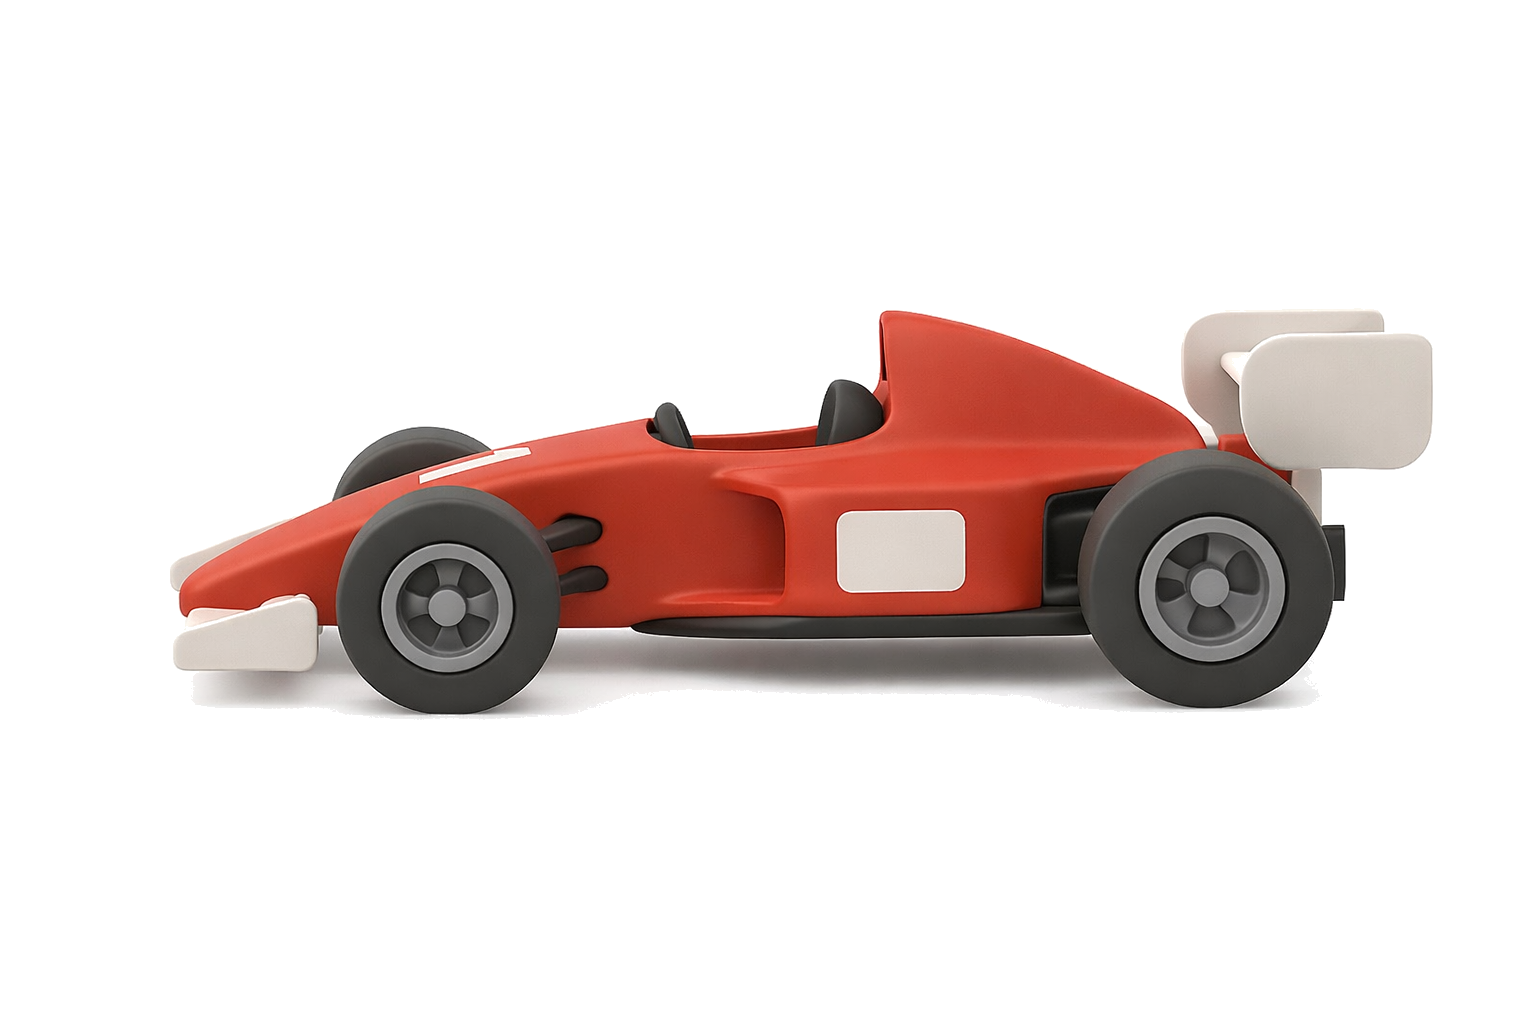
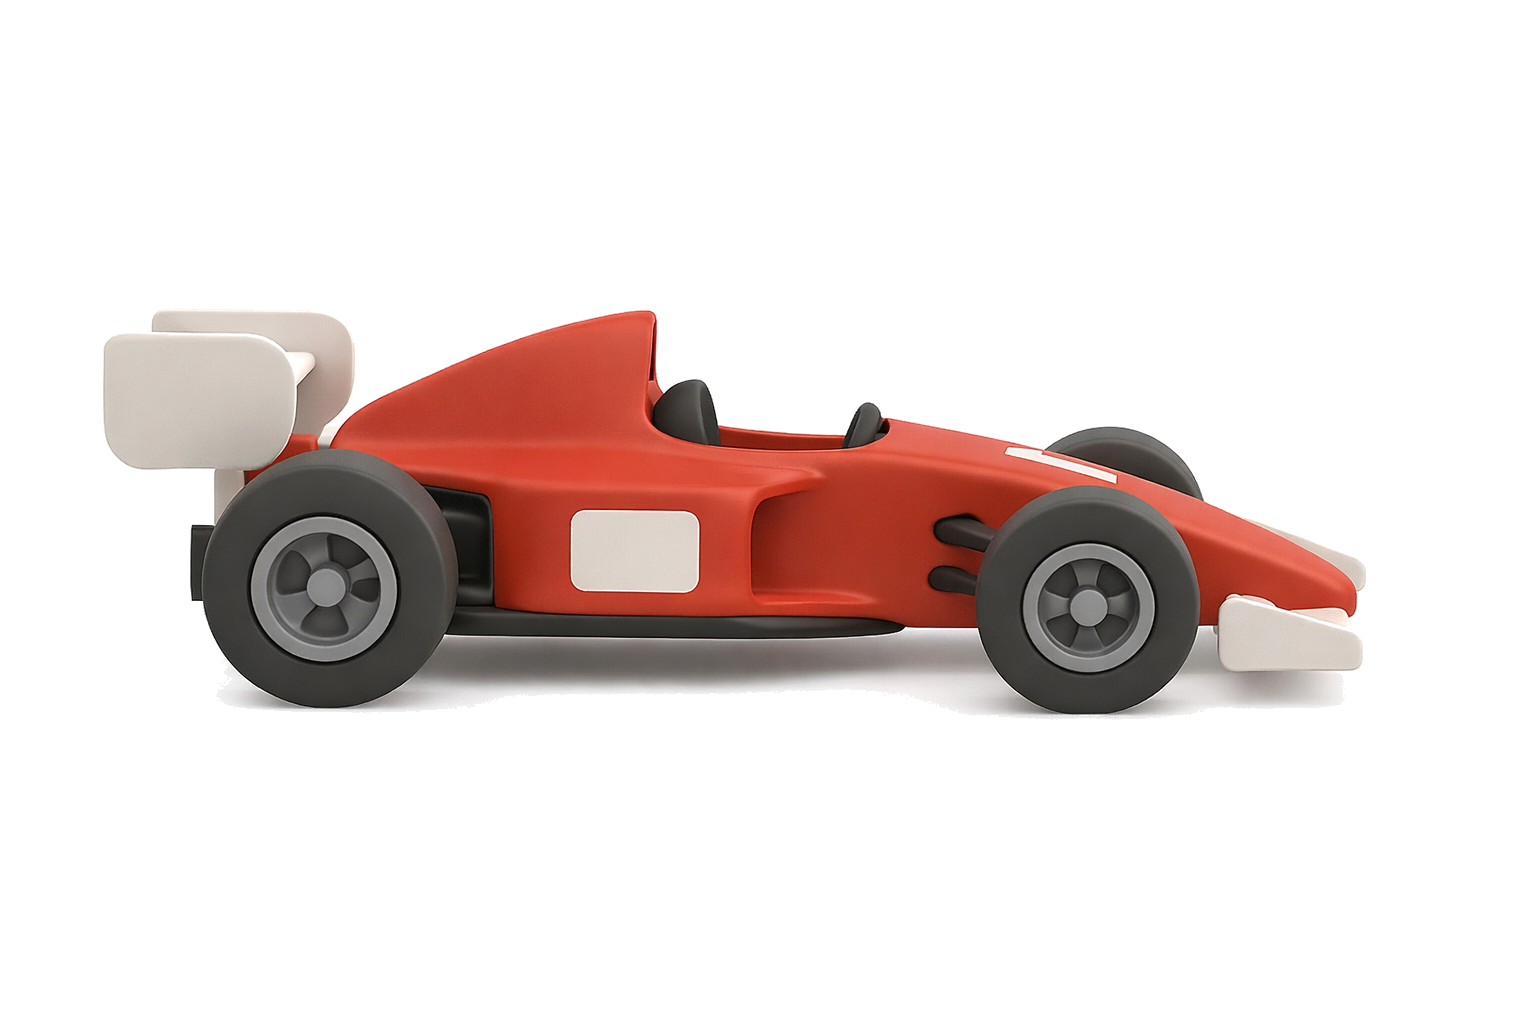
feat: Update character names and descriptions; enhance idle animation handling in BodyShape

Changed region(s): [[0.0625, 0.2812, 0.9375, 0.7188]]

diff --git a/scripts/shapes/bodyShape.js b/scripts/shapes/bodyShape.js
@@ -46,12 +46,15 @@ class BodyShape extends BaseShape {
     setProperties(properties) {
         super.setProperties(properties);
         this.character = this.getSelectedCharacter();
+        this.synchronizeIdleAnimationTicker();
     }
 
     setProperty(name, value) {
         if (name === "characterKey")
             this.character = BodyShape.getCharacterByKey(value);
         super.setProperty(name, value);
+        if (name === "characterKey")
+            this.synchronizeIdleAnimationTicker();
     }
 
     getHandles() {
@@ -142,6 +145,7 @@ class BodyShape extends BaseShape {
         const buttonItems = characters.map(character => ({
             key: character.folder,
             name: character.name,
+            description: character.description,
             icon: `resources/characters/${character.folder}/${character.image}`
         }));
         items.push(
@@ -204,6 +208,7 @@ class BodyShape extends BaseShape {
                     },
                     itemTemplate: (itemData, itemIndex, itemElement) => {
                         itemElement[0].innerHTML = `<div style="width:50px;height:50px;display:flex;align-items:center;justify-content:center;"><img src="${itemData.icon}" alt="${itemData.name}" style="width:100%;height:100%;object-fit:contain;" /></div>`;
+                        this.configureCharacterTooltip(itemData, itemElement[0]);
                     },
                     onItemClick: e => {
                         const formInstance = $("#shape-form").dxForm("instance");
@@ -215,6 +220,37 @@ class BodyShape extends BaseShape {
         );
         instance.option("items", items);
         return form;
+    }
+
+    configureCharacterTooltip(itemData, itemElement) {
+        if (itemElement.dataset.tooltipInitialized === "true")
+            return;
+        itemElement.dataset.tooltipInitialized = "true";
+        const name = this.escapeCharacterTooltipText(itemData.name ?? "");
+        const description = this.escapeCharacterTooltipText(itemData.description ?? "");
+        const tooltipHtml = `<div class="tooltip"><strong>${name}</strong><div>${description}</div></div>`;
+        $("<div>")
+            .appendTo("body")
+            .dxTooltip({
+                target: itemElement,
+                contentTemplate: contentElement => contentElement.append($("<div class='tooltip'/>").html(tooltipHtml)),
+                showEvent: {
+                    delay: 300,
+                    name: "mouseenter"
+                },
+                hideEvent: "mouseleave",
+                position: "top",
+                width: 220
+            });
+    }
+
+    escapeCharacterTooltipText(value) {
+        return String(value)
+            .replaceAll("&", "&amp;")
+            .replaceAll("<", "&lt;")
+            .replaceAll(">", "&gt;")
+            .replaceAll('"', "&quot;")
+            .replaceAll("'", "&#39;");
     }
 
     createImageDropZoneEditor() {
@@ -292,10 +328,53 @@ class BodyShape extends BaseShape {
         this.properties.imageBase64 = "";
         this.properties.characterKey = "";
         this.character = null;
+        this.lastBoardHorizontalPosition = null;
+        this.flipImageHorizontally = false;
+        this.idleAnimationIntervalId = null;
+        this.idleAnimationIntervalMs = null;
+    }
+
+    clearIdleAnimationTicker() {
+        if (this.idleAnimationIntervalId == null)
+            return;
+        clearInterval(this.idleAnimationIntervalId);
+        this.idleAnimationIntervalId = null;
+        this.idleAnimationIntervalMs = null;
+    }
+
+    synchronizeIdleAnimationTicker() {
+        const character = this.getSelectedCharacter();
+        if (!character) {
+            this.clearIdleAnimationTicker();
+            return;
+        }
+        const idleAnimation = this.getCharacterIdleAnimation(character);
+        if (!idleAnimation) {
+            this.clearIdleAnimationTicker();
+            return;
+        }
+        const frameCount = idleAnimation.frames;
+        if (!Number.isFinite(frameCount) || frameCount <= 0) {
+            this.clearIdleAnimationTicker();
+            return;
+        }
+        const intervalMs = 1000 / frameCount;
+        if (this.idleAnimationIntervalId != null && this.idleAnimationIntervalMs === intervalMs)
+            return;
+        this.clearIdleAnimationTicker();
+        this.idleAnimationIntervalMs = intervalMs;
+        this.idleAnimationIntervalId = setInterval(() => {
+            if (this.isSimulationPlaying())
+                return;
+            if (!this.getSelectedCharacter())
+                return;
+            this.board.markDirty(this);
+        }, intervalMs);
     }
 
     update() {
         super.update();
+        this.synchronizeIdleAnimationTicker();
         const character = this.getSelectedCharacter();
         if (character) {
             if (this.imageDropZoneControl)
@@ -329,6 +408,7 @@ class BodyShape extends BaseShape {
         const character = this.getSelectedCharacter();
         if (character) {
             this.drawCharacter(position, radius, diameter, character);
+            this.applyImageFlipTransform(position, true);
             return;
         }
         this.circle.setAttribute("cx", position.x);
@@ -341,6 +421,15 @@ class BodyShape extends BaseShape {
         this.image.setAttribute("width", diameter);
         this.image.setAttribute("height", diameter);
         this.image.setAttribute("preserveAspectRatio", "xMidYMid slice");
+        this.applyImageFlipTransform(position, this.image.hasAttribute("href"));
+    }
+
+    applyImageFlipTransform(position, hasImage) {
+        if (!hasImage || !this.flipImageHorizontally) {
+            this.image.removeAttribute("transform");
+            return;
+        }
+        this.image.setAttribute("transform", `translate(${position.x * 2} 0) scale(-1 1)`);
     }
 
     getSelectedCharacter() {
@@ -350,6 +439,7 @@ class BodyShape extends BaseShape {
     }
 
     drawCharacter(position, radius, diameter, character) {
+        this.synchronizeIdleAnimationTicker();
         this.circle.setAttribute("cx", position.x);
         this.circle.setAttribute("cy", position.y);
         this.circle.setAttribute("r", radius);
@@ -361,11 +451,11 @@ class BodyShape extends BaseShape {
         this.image.setAttribute("height", diameter);
         this.image.setAttribute("preserveAspectRatio", "xMidYMid meet");
         const iteration = this.board.calculator.getIteration();
-        const animation = character.animations[0];
+        const animation = this.getCharacterAnimation(character);
         const frameCount = animation.frames;
         const animationFolder = animation.folder;
         const startIndex = animation.startIndex ?? 0;
-        const rawFrameIndex = (iteration % frameCount) + startIndex;
+        const rawFrameIndex = this.getAnimationFrameIndex(animation, frameCount, iteration, startIndex);
         const padLength = animation.padLength ?? 0;
         const frameIndex = padLength > 0 ? String(rawFrameIndex).padStart(padLength, "0") : String(rawFrameIndex);
         const filePrefix = animation.filePrefix ?? `${character.name} ${animation.name} `;
@@ -374,6 +464,45 @@ class BodyShape extends BaseShape {
         this._lastFrameName = frameName;
         this._lastAnimationFolder = animationFolder;
         this._lastCharacterFolder = character.folder;
+    }
+
+    getAnimationFrameIndex(animation, frameCount, iteration, startIndex) {
+        if (!this.isSimulationPlaying() && animation.name === "Idle") {
+            const frameIntervalMs = 1000 / frameCount;
+            const elapsedFrames = Math.floor(Date.now() / frameIntervalMs) % frameCount;
+            return elapsedFrames + startIndex;
+        }
+        return (iteration % frameCount) + startIndex;
+    }
+
+    getCharacterAnimation(character) {
+        const animations = character.animations ?? [];
+        if (animations.length === 0)
+            return { name: "Idle", folder: "", frames: 1 };
+        const idleAnimation = this.getCharacterIdleAnimation(character);
+        if (!this.isSimulationPlaying() && idleAnimation)
+            return idleAnimation;
+        const movingAnimation = this.getCharacterMovingAnimation(character);
+        return movingAnimation ?? idleAnimation ?? animations[0];
+    }
+
+    isSimulationPlaying() {
+        const playingStatus = typeof STATUS !== "undefined" ? STATUS.PLAYING : 0;
+        return this.board.calculator.status === playingStatus;
+    }
+
+    getCharacterIdleAnimation(character) {
+        return character.animations.find(animation => animation.name === "Idle") ?? null;
+    }
+
+    getCharacterMovingAnimation(character) {
+        const walkAnimation = character.animations.find(animation => animation.name === "Walk");
+        if (walkAnimation)
+            return walkAnimation;
+        const nonIdleAnimation = character.animations.find(animation => animation.name !== "Idle");
+        if (nonIdleAnimation)
+            return nonIdleAnimation;
+        return character.animations[0] ?? null;
     }
 
     tick() {
@@ -392,6 +521,11 @@ class BodyShape extends BaseShape {
         this.properties.x = scale.x !== 0 ? x / scale.x : 0;
         const y = -this.resolveTermNumeric(this.properties.yTerm, yCase);
         this.properties.y = scale.y !== 0 ? y / scale.y : 0;
+        const boardPosition = this.getBoardPosition();
+        if (this.lastBoardHorizontalPosition === boardPosition.x)
+            return;
+        this.flipImageHorizontally = this.lastBoardHorizontalPosition !== null && this.lastBoardHorizontalPosition > boardPosition.x;
+        this.lastBoardHorizontalPosition = boardPosition.x;
     }
 
     tickTrajectory() {
